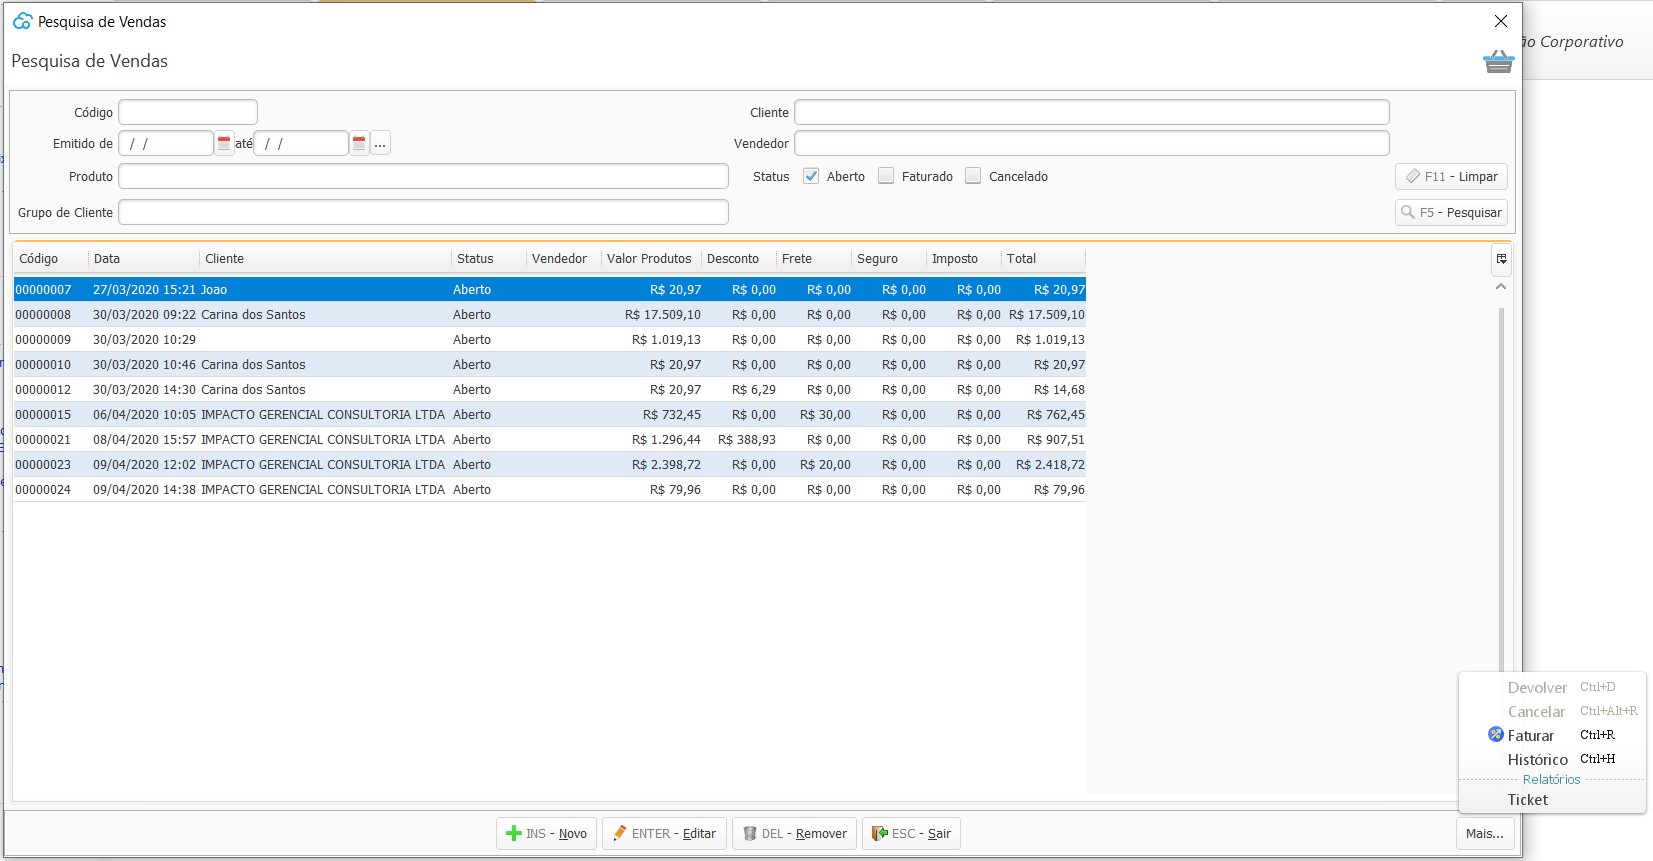
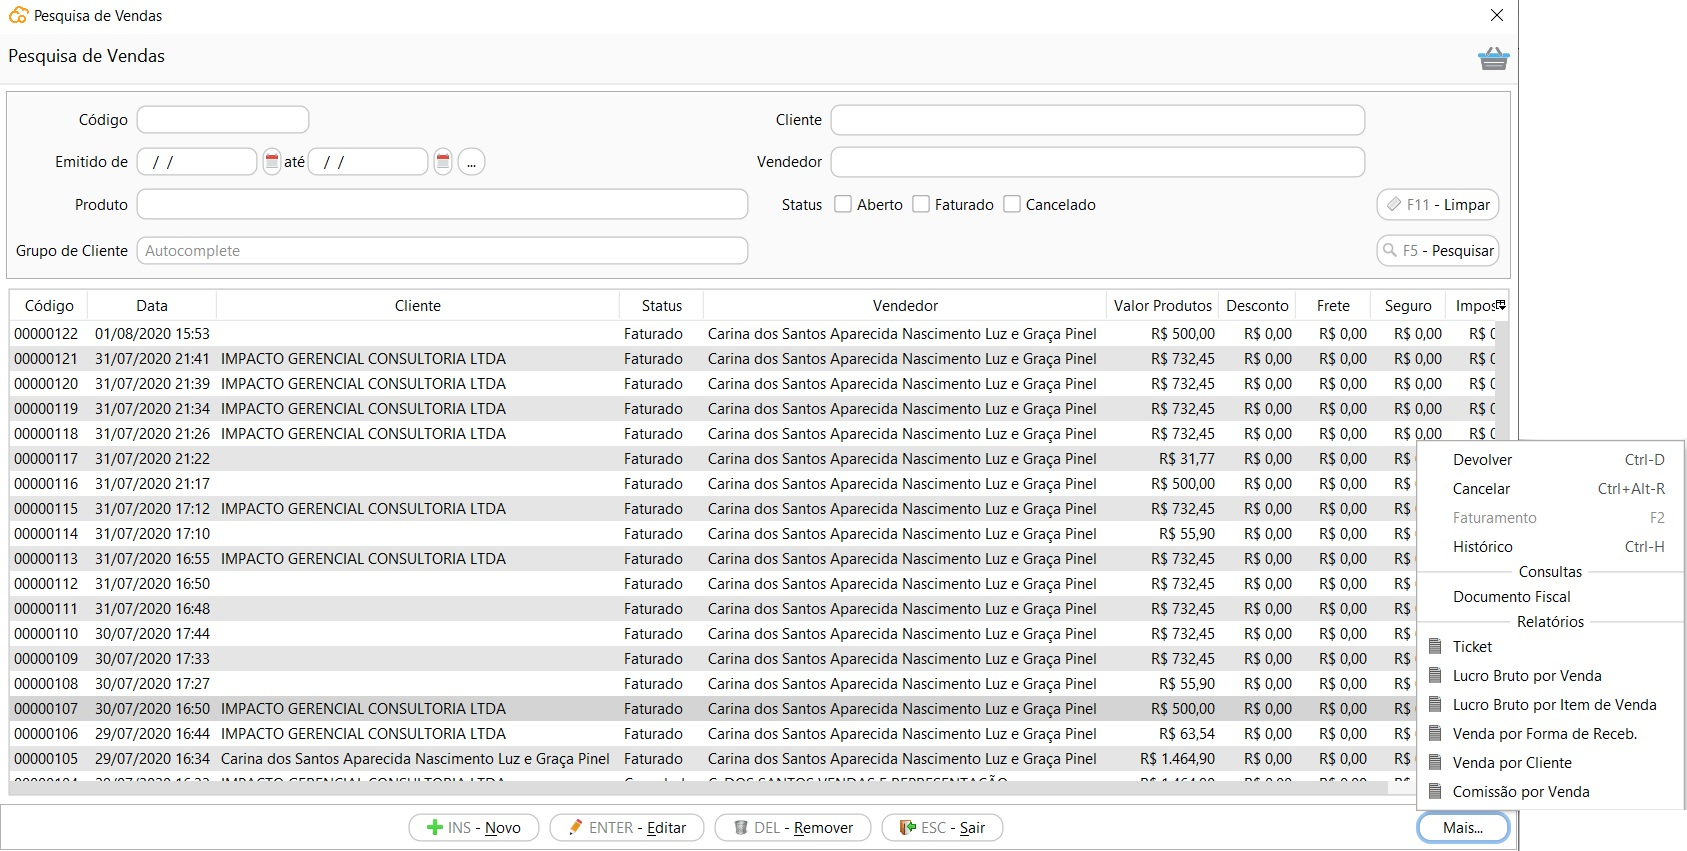
atualizacao_gestao_dfe_vendas
atualizacao_gestao_dfe_vendas

diff --git a/docs/gestao_fiscal_gestao_dfe.md b/docs/gestao_fiscal_gestao_dfe.md
@@ -12,8 +12,6 @@
 
 Nesta tela consta a relação de todos os documentos fiscais emitidos e recebidos pela empresa.
 
-Através do botão `Mais` ou com o botão inverso do mouse se acessa todos os outros processos relacionados ao documento fiscal e também a impressão dos DANFES e relatórios.
-
 ###### Status
 
 - Aprovado - Documento fiscal eletrônico emitido pela empresa e aprovado pela SEFAZ. *Uma exceção para os documentos tipo NFC-e emitidos em contingência Off-line que tem o Status Aprovado antes de serem enviados ao SEFAZ*
@@ -30,15 +28,29 @@ Através do botão `Mais` ou com o botão inverso do mouse se acessa todos os ou
 
 
 
+#### Processos
+
+Através do botão `Mais` ou com o botão inverso do mouse se acessa todos os processos relacionados ao documento fiscal e também a impressão dos DANFES e relatórios.
+
+O menu [Reemissão](gestao_fiscal_gestao_dfe.md#reemissao) é habilitado somente se selecionado um documento fiscal com status Rejeitado. 
+
+O menu [Carta de Correção](gestao_fiscal_gestao_dfe.md#cartacorrecao) é habilitado somente se selecionado um documento fiscal modelo 55 (NF-e) com status Rejeitado. 
+
+O menu [Cancelamento](gestao_fiscal_gestao_dfe.md#cancelamento) é habilitado somente se selecionado um documento fiscal com status Aprovado
+
+As opções [Histórico](gestao_fiscal_gestao_dfe.md#historico), [Contingência](gestao_fiscal_gestao_dfe.md#contingencia) e [Exportar](exportar) ficam sempre habilitados.
+
+![](images/gestao_fiscal_gestao_dfe_pesquisa.jpg)
+
+
+
 {: #reemissao}
 
 #### Reemissão
 
-O menu para acesso ao processo de Reemissão de documentos fiscais é habilitado somente para os documentos fiscais com status= Rejeitado. 
-
-![](images/gestao_fiscal_gestao_dfe_reemissao.jpg)
-
 O processo de reemissão pode ser utilizado para todas as NF-e ou NFC-e emitidas pela empresa, através dos processos de Vendas, Devolução de Vendas ou Devolução de Compras.
+
+
 
 
 
@@ -80,6 +92,10 @@ Como a contingência Off-line não realiza comunicação com o SEFAZ, ou seja, t
 
 
 
+                                                                                                                                                                                      [Voltar ao Início da Página](gestao_fiscal_gestão_dfe)
+
+
+
 {: #historico}
 
 #### Histórico
@@ -96,7 +112,19 @@ Ao lado esquerdo estão disponíveis o histórico de eventos e ao lado direito o
 
 #### Carta de Correção
 
-Para as NF-e com status aprovado no meu `Mais`
+Para as NF-e com status aprovado, que estejam no limite de 720 horas após a emissão, no meu `Mais` da tela de  Gestão de Documentos fiscais está disponível a opção Carta de Correção.
+
+Na tela inicial estão disponíveis as cartas de correção já enviadas. É possível enviar até 20 eventos de carta de correção por NF-e, mas lembramos que **o registro de uma nova Carta de Correção substitui a Carta de Correção anterior, assim a nova Carta de Correção deve conter todas as correções a serem consideradas.** 
+
+ Através do botão `Mais` ou o botão inverso do mouse é possível verificar o DANFE da CC-e. Não existe um padrão de documento auxiliar para a Carta de Correção eletrônica definido pelo governo. O Continente Nuvem disponibiliza a impressão deste documento não fiscal para facilitar a consulta do evento enviado eletronicamente ao SEFAZ.
+
+![](images/gestao_fiscal_gestao_dfe_cartacorrecao.jpg)
+
+Para incluir uma nova Carta de correção basta clicar em `Novo` descrever a correção e clicar em `Gravar` que o evento será enviada a SEFAZ.
+
+A tela faz a validação de quantidade mínima e máxima de caracteres permitidos, de 15 a 1000 e o sistema trata dos caracteres especiais ao enviar o evento, então o texto pode ser escrito normalmente.
+
+![](images/gestao_fiscal_gestao_dfe_cartacorrecao_novo.jpg)
 
 
 

diff --git a/docs/vendas_venda.md b/docs/vendas_venda.md
@@ -14,13 +14,21 @@
 
 Nesta tela estão disponíveis todas as vendas cadastradas, as faturadas e as em aberto. O filtro padrão ao abrir a tela mostra somente as em Aberto.
 
+![](images/vendas_venda_pesquisa_aberto.jpg)
+
+
+
+#### Processos
+
+Através do botão `Mais` ou com o botão inverso do mouse se acessa todos os processos relacionados a Venda e também a impressão dos Tickets e relatórios.
+
 Através do botão mais pode-se acessar os menus relacionados com a venda.
 
 A opção Faturamento só fica disponível para as Compras com status Aberto.
 
 As opções Devolver e Cancelar ficam disponíveis para as Vendas Faturadas 
 
-![](images/vendas_venda_pesquisa_aberto.jpg)
+
 
 {: #cadastro}
 
@@ -248,5 +256,5 @@ E as transações financeiras resultantes da Venda também ficam com status Canc
 
 
 
-[Voltar](vendas.md#vendas)
+[Voltar à página anterior](vendas.md)                                                                                                                                       [Voltar ao início da página](vendas_venda.md)
 
